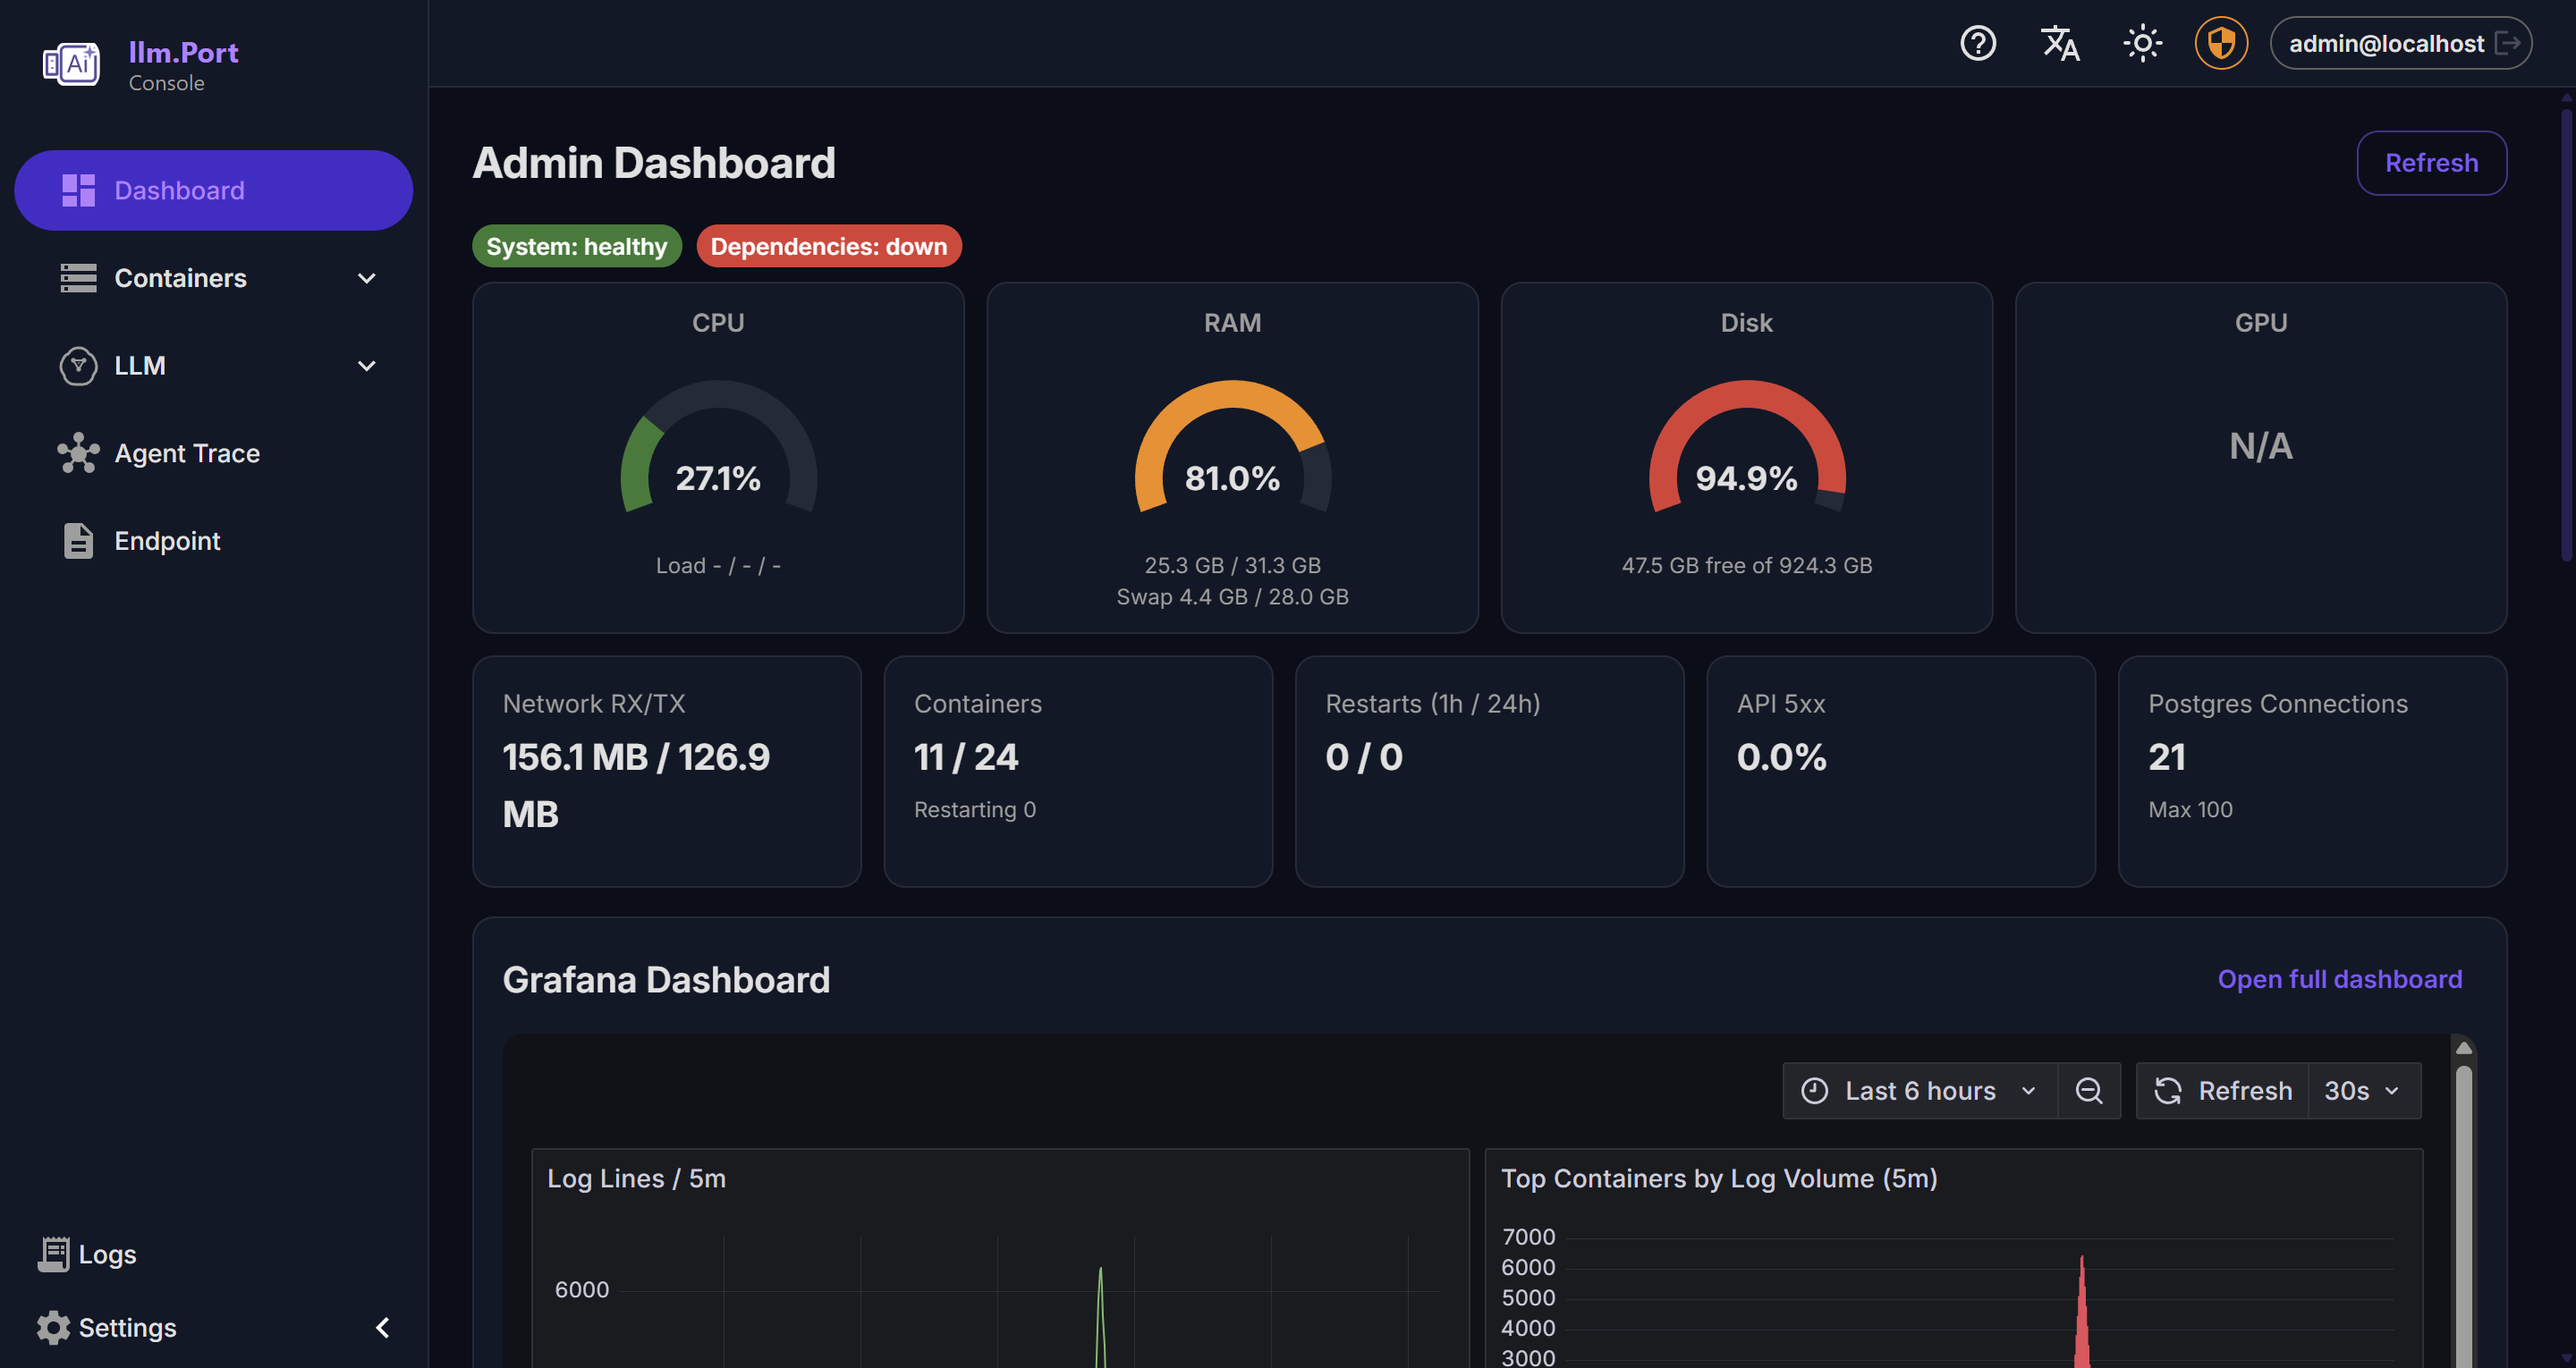
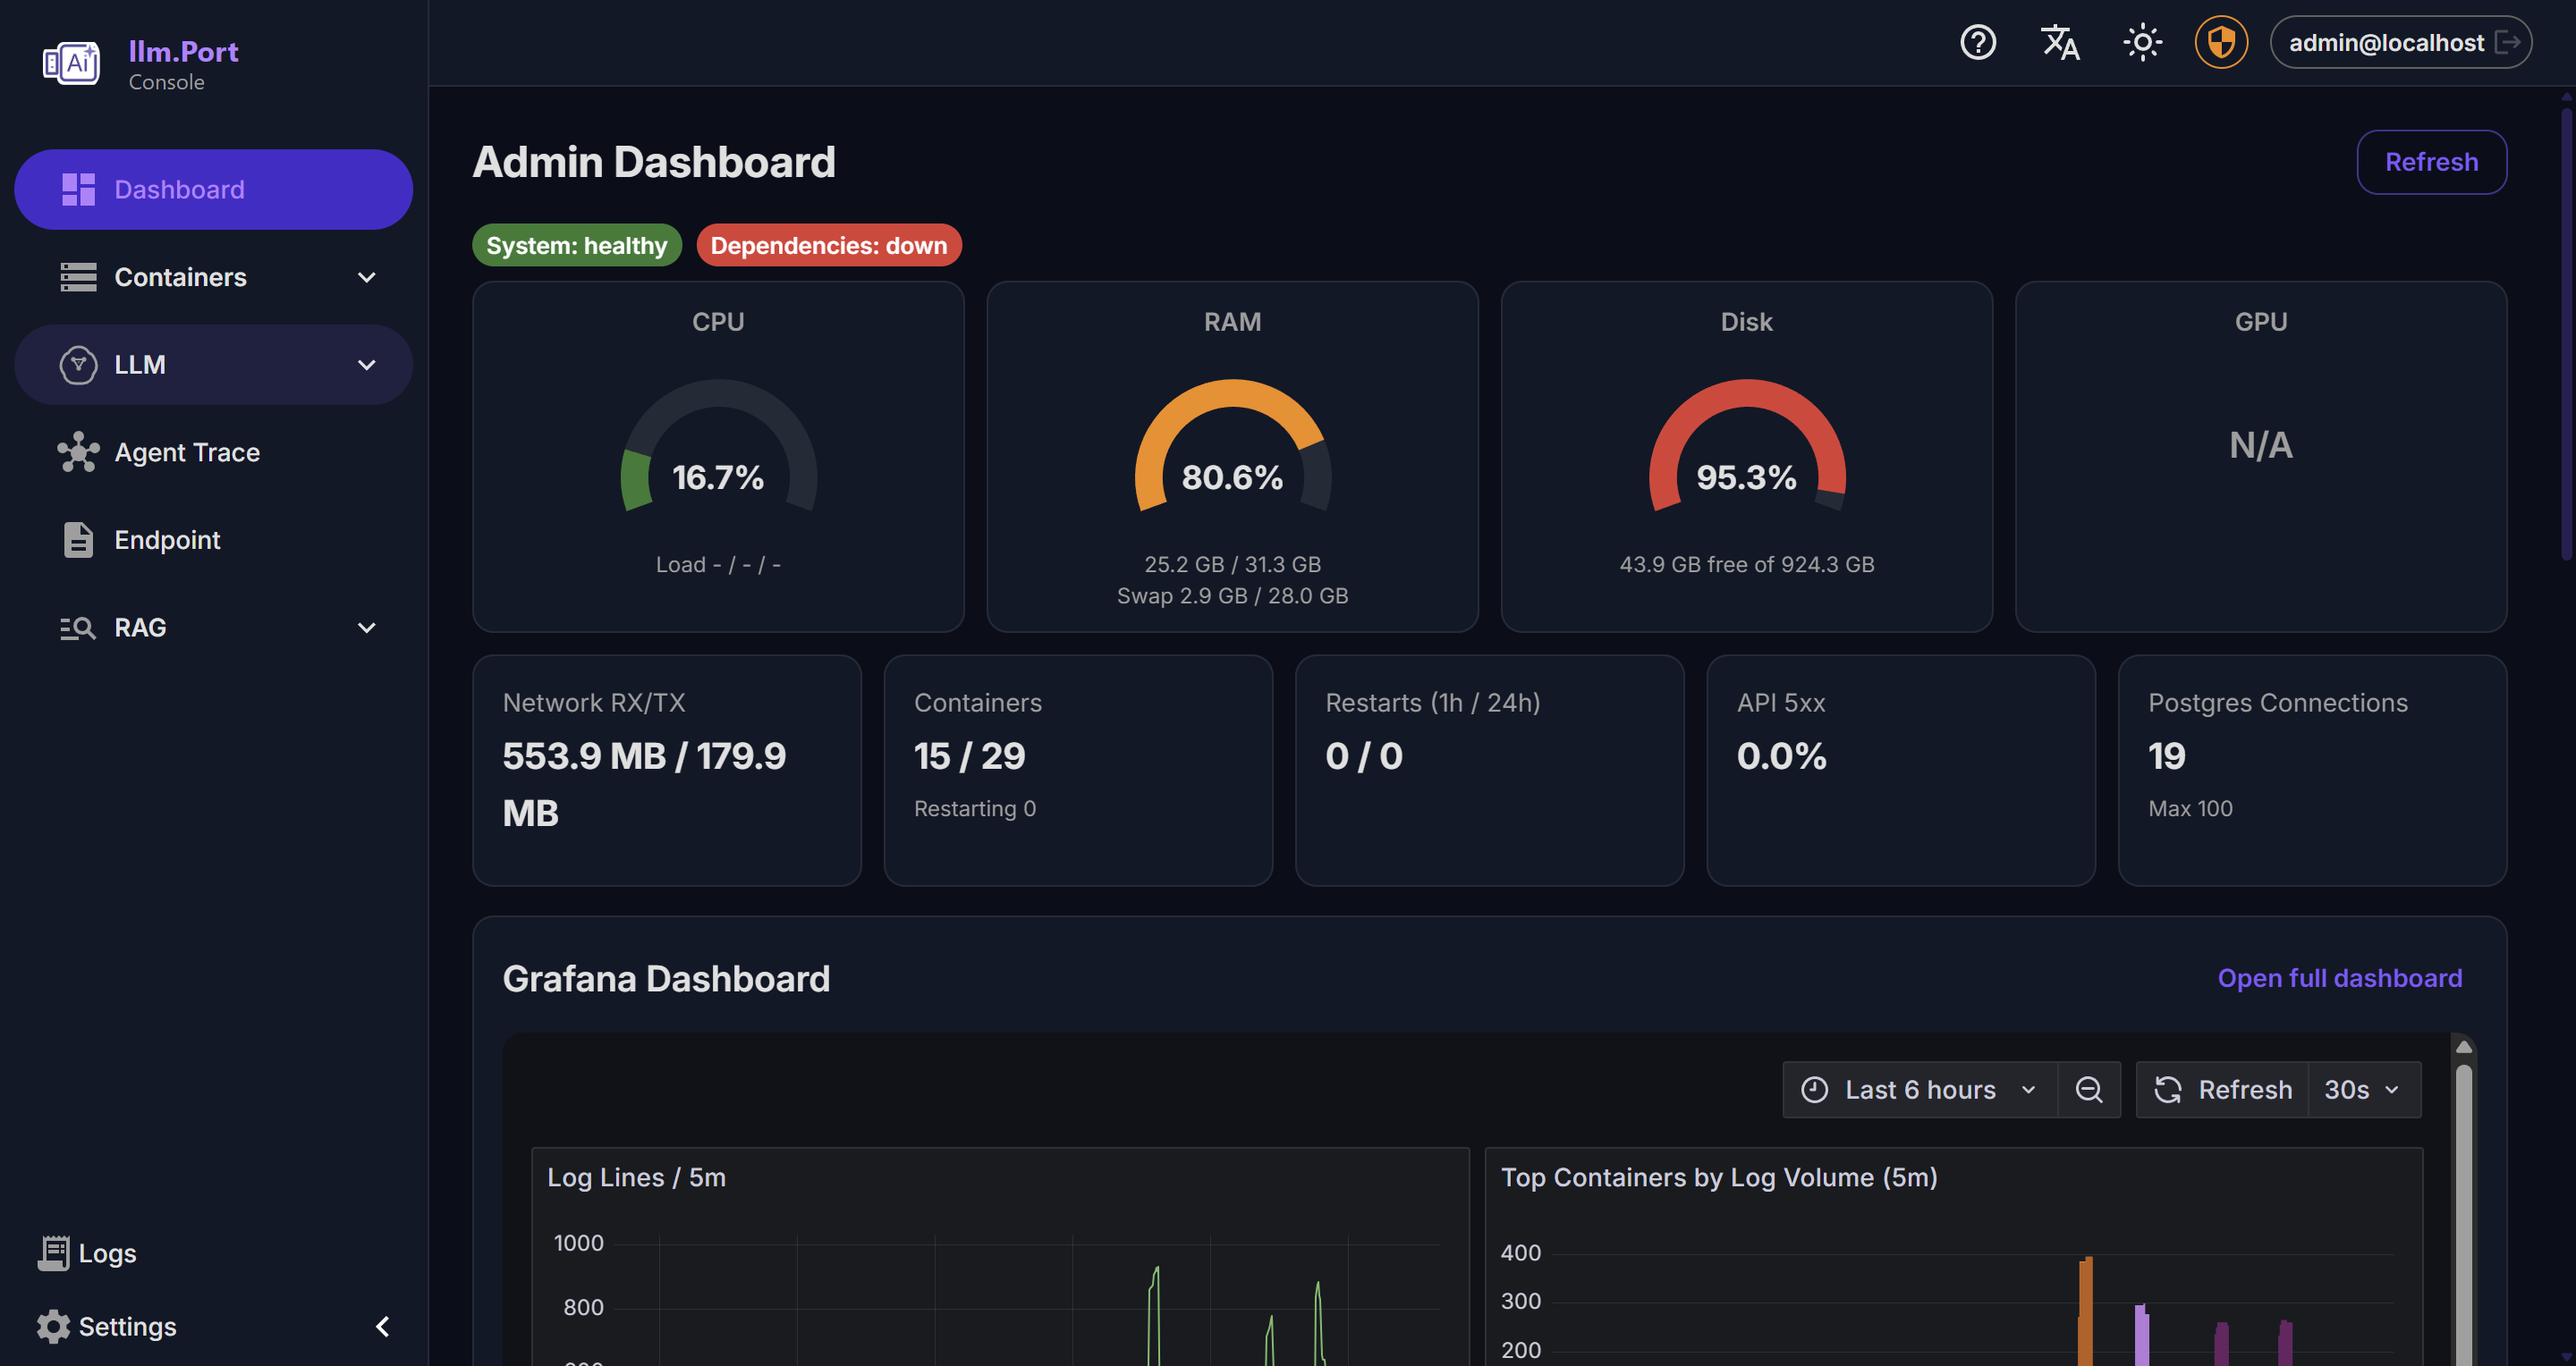
update readme

diff --git a/profile/README.md b/profile/README.md
@@ -13,6 +13,10 @@
 
 <img src="./images/trace.png">
 
+<img src="./images/api.png">
+
+<img src="./images/rag_collectors.png">
+
 ## What we’re building
 
 - **One endpoint for all apps**: OpenAI-compatible API (`/v1/*`)
